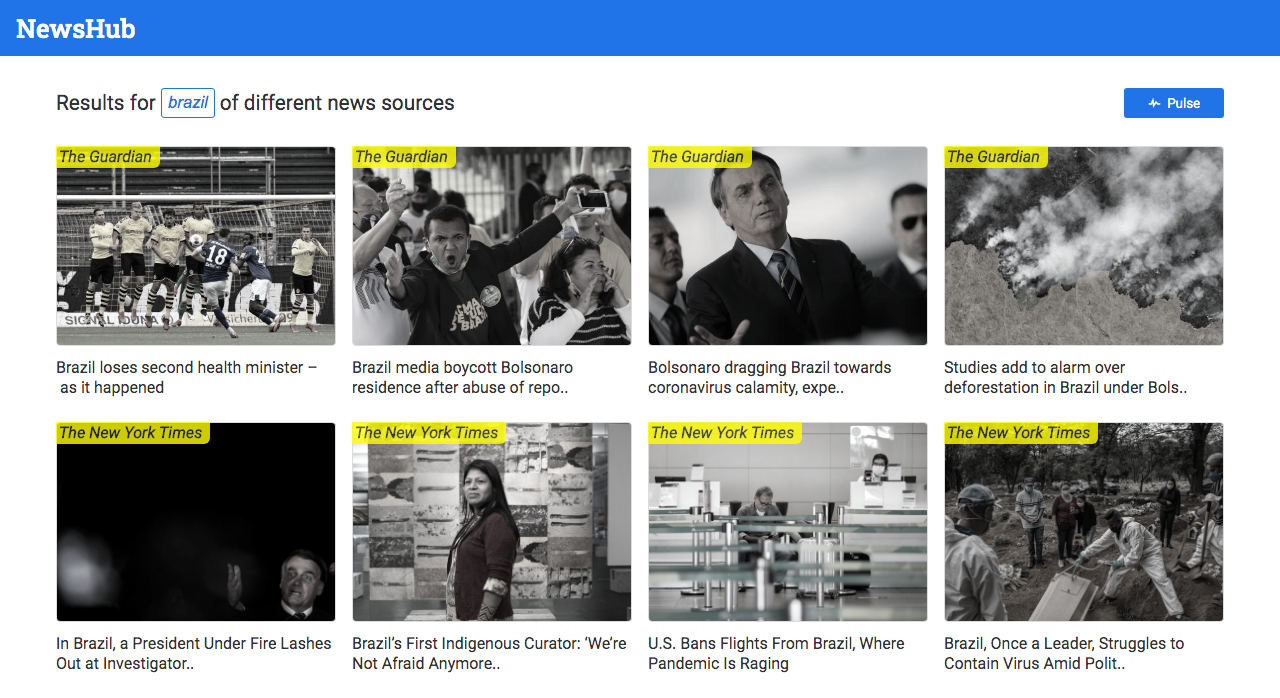
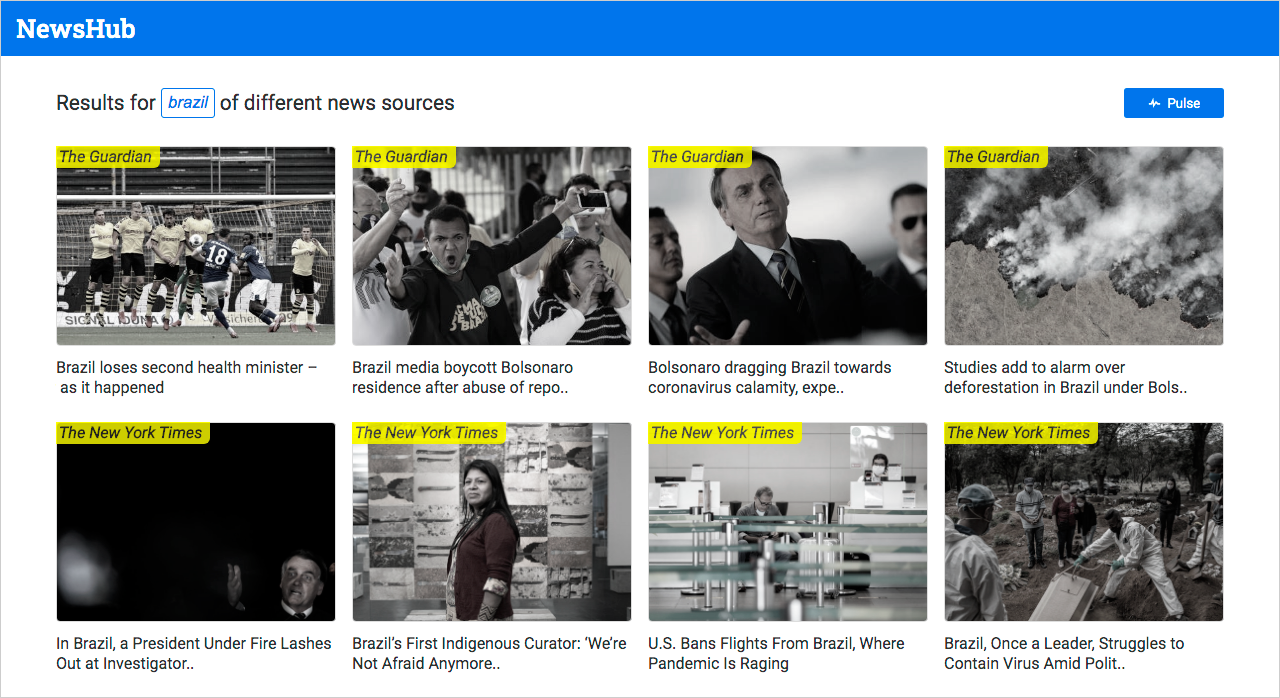
fix: add screenshot and readme adjustments

diff --git a/README.md b/README.md
@@ -4,7 +4,7 @@ A Typescript React / Redux application, to get top headlines of different source
 
 ![Desktop browser screenshot - Home](./misc/newshub_lucazweb_screenshot.png)
 
-![Desktop browser screenshot - Story Detail](./misc/newshub_lucazweb_screenshot.png)
+![Desktop browser screenshot - Story Detail](./misc/newshub_lucazweb_screenshot2.png)
 
 ### Installation
 
